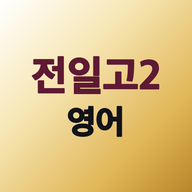
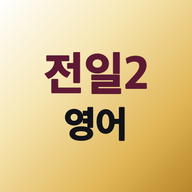
아이콘·홈 화면 이름 줄임(학교 2자+학년)

Changed region(s): [[0.1562, 0.25, 0.8438, 0.5], [0.3125, 0.5312, 0.6562, 0.75]]

diff --git a/index.html b/index.html
@@ -122,7 +122,7 @@ body:not(.nobrand) #submit::before{content:"";display:inline-block;width:1.35em;
 <link rel="apple-touch-icon" href="/apple-touch-icon.png?v=e1">
 <meta name="apple-mobile-web-app-capable" content="yes">
 <meta name="mobile-web-app-capable" content="yes">
-<meta name="apple-mobile-web-app-title" content="전일고2">
+<meta name="apple-mobile-web-app-title" content="전일2">
 <meta name="apple-mobile-web-app-status-bar-style" content="default">
 <meta name="theme-color" content="#f5f5f2" media="(prefers-color-scheme: light)">
 <meta name="theme-color" content="#141416" media="(prefers-color-scheme: dark)">
